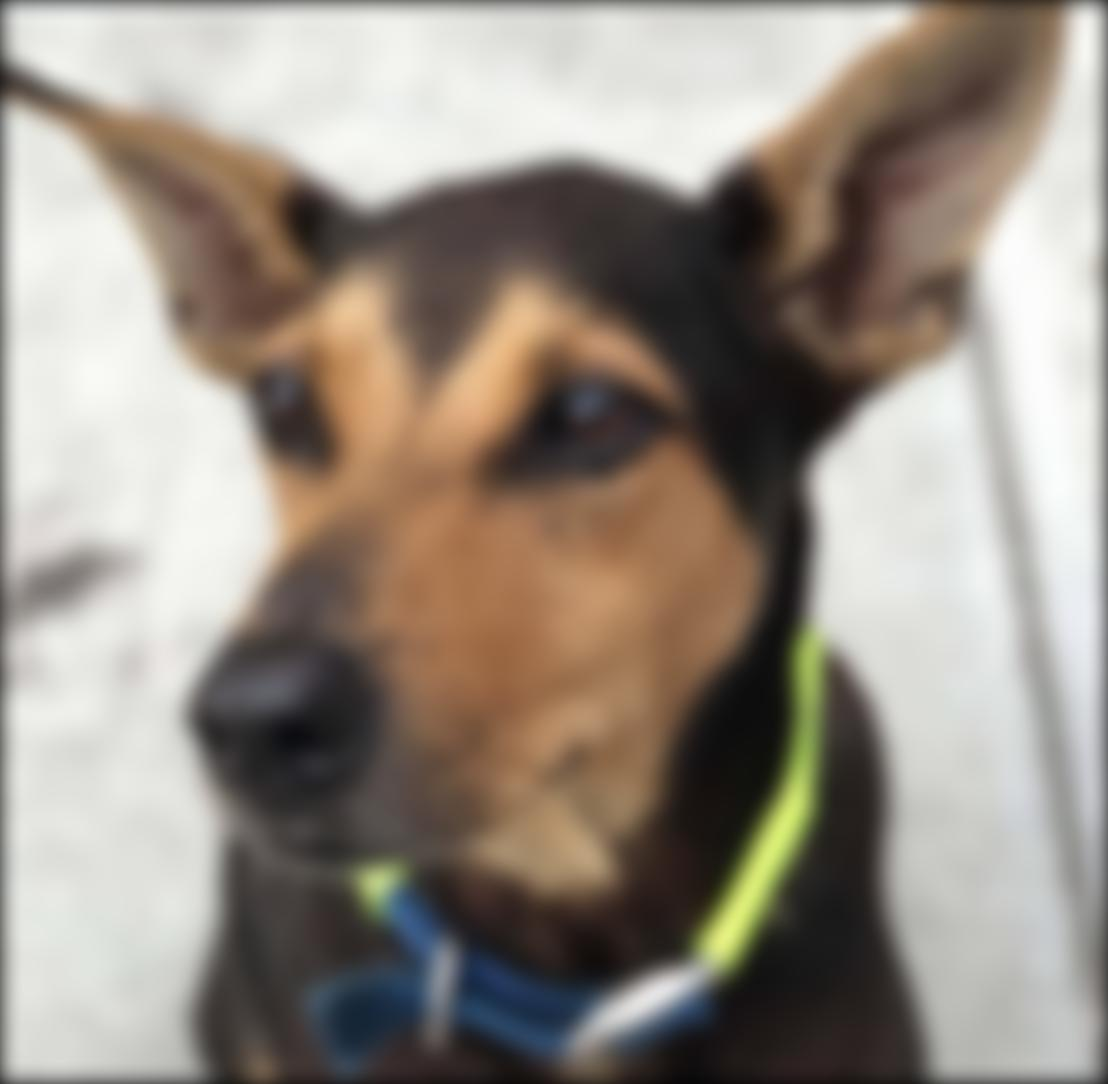
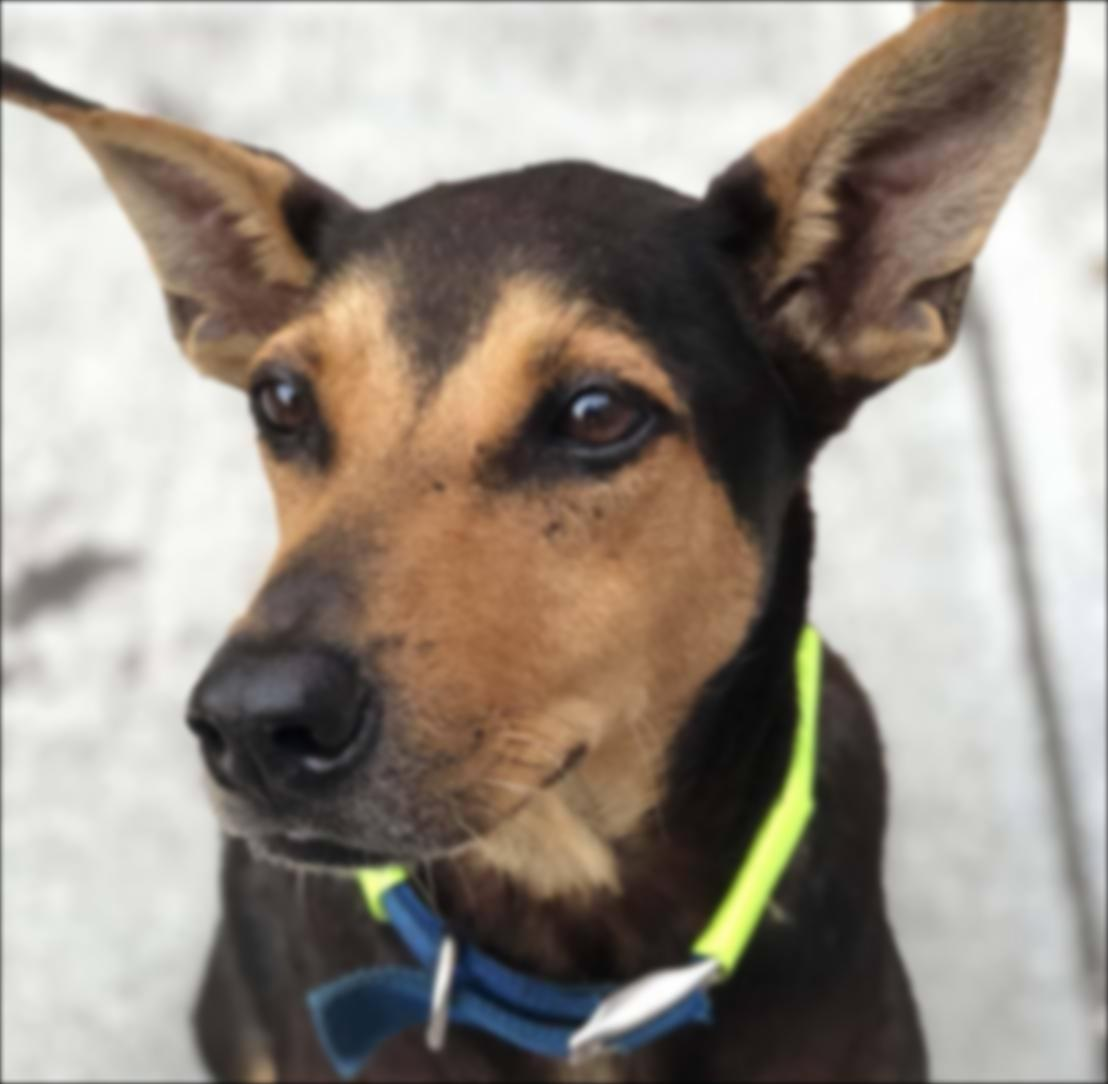
modify example images

diff --git a/src/test_filter.py b/src/test_filter.py
@@ -9,45 +9,47 @@ if __name__ == "__main__":
     plt.figure()
     plt.imshow(image)
 
-    gray = gray_scale(image)
+    gray = gray_scale(image).astype('uint8')
     plt.figure()
     plt.imshow(gray, cmap='gray')
-    imsave('../example/gray.jpg', gray)
+    imsave('../example/gray_scale.jpg', gray)
 
-    freq = 11
-    blurred = blur(image, kernel=(freq*4+1, freq*4+1), sigma=freq)
+    freq = 3
+    blurred = blur(image, kernel=(freq*4+1, freq*4+1),
+                   sigma=freq).astype('uint8')
     plt.figure()
     plt.imshow(blurred)
     imsave('../example/blur.jpg', blurred)
 
-    sharp = sharpen(image, rate=0.5, kernel=(freq*4+1, freq*4+1), sigma=freq)
+    sharp = sharpen(image, rate=0.5, kernel=(
+        freq*4+1, freq*4+1), sigma=freq).astype('uint8')
     plt.figure()
     plt.imshow(sharp)
     imsave('../example/sharpen.jpg', sharp)
 
-    inverted = invert(image)
+    inverted = invert(image).astype('uint8')
     plt.figure()
     plt.imshow(inverted)
     imsave('../example/invert.jpg', inverted)
 
-    powered = power(image)
+    powered = power(image).astype('uint8')
     plt.figure()
     plt.imshow(powered)
     imsave('../example/power.jpg', powered)
 
-    enhanced = enhance(image, contrast=1.5, brightness=50)
+    enhanced = enhance(image, contrast=1.5, brightness=50).astype('uint8')
     plt.figure()
     plt.imshow(enhanced)
-    imsave('../example/enhanced.jpg', enhanced)
+    imsave('../example/enhance.jpg', enhanced)
 
-    grad = sobel(image)
+    grad = sobel(image).astype('uint8')
     plt.figure()
     plt.imshow(grad, cmap='gray')
     imsave('../example/sobel.jpg', grad)
 
-    edge = edge_detect(image)
+    edge = edge_detect(image).astype('uint8')
     plt.figure()
     plt.imshow(edge, cmap='gray')
-    imsave('../example/edge.jpg', edge)
+    imsave('../example/edge_detect.jpg', edge)
 
     plt.show()
